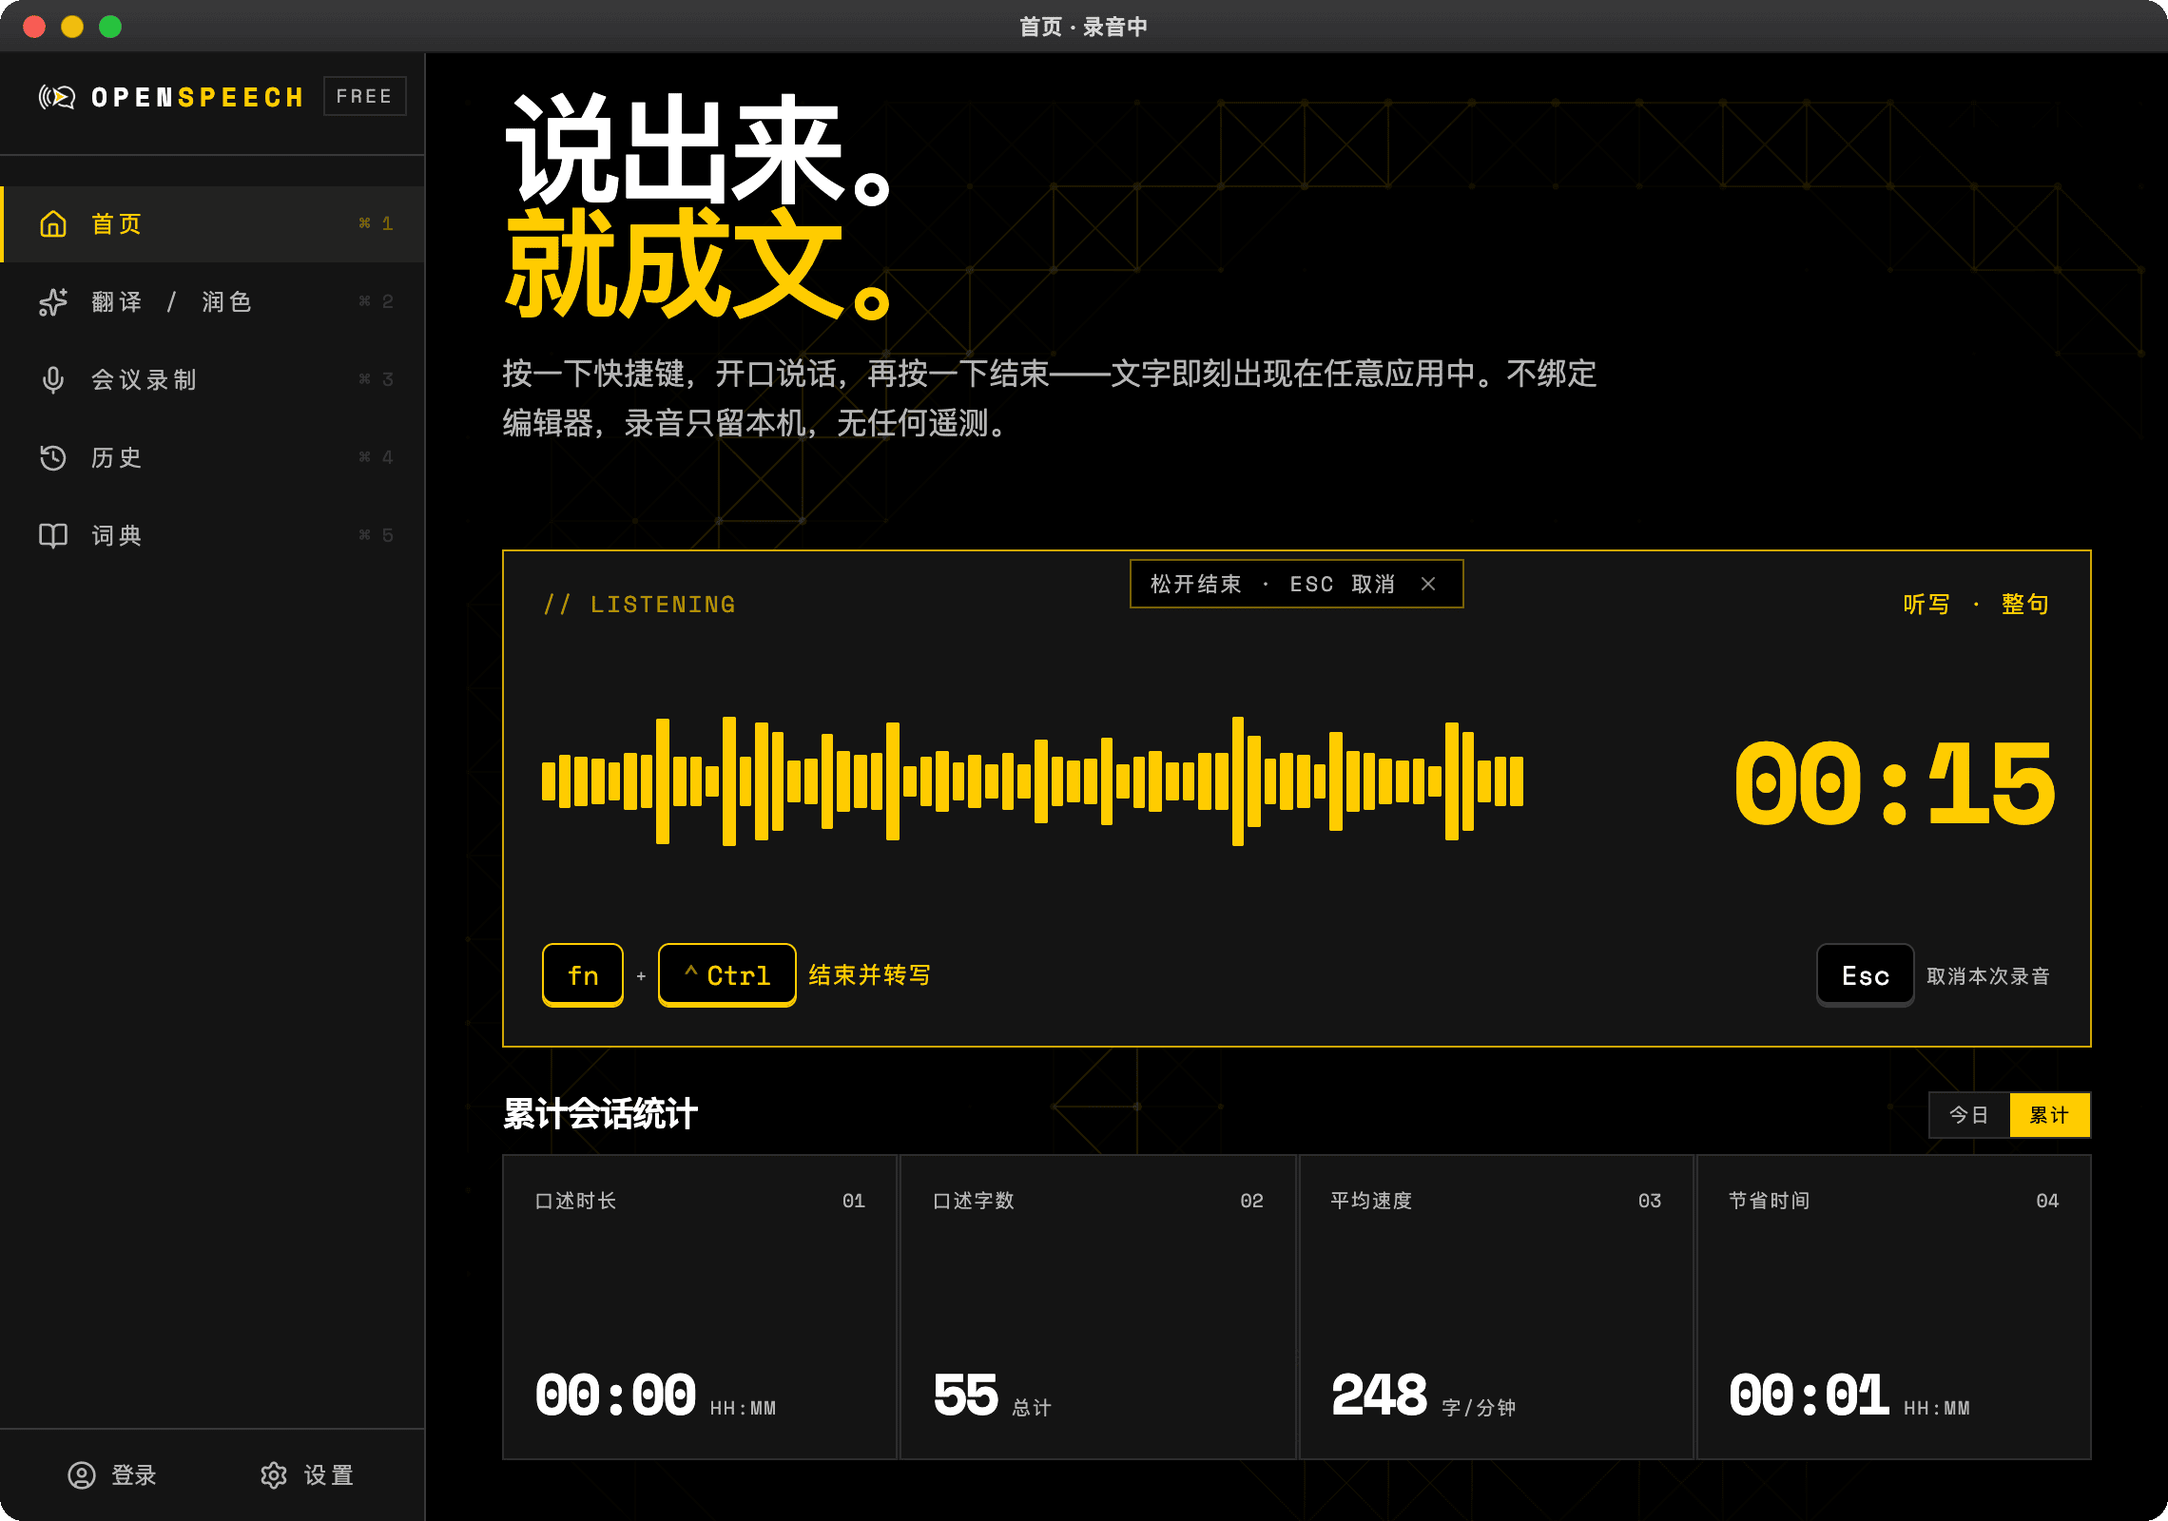
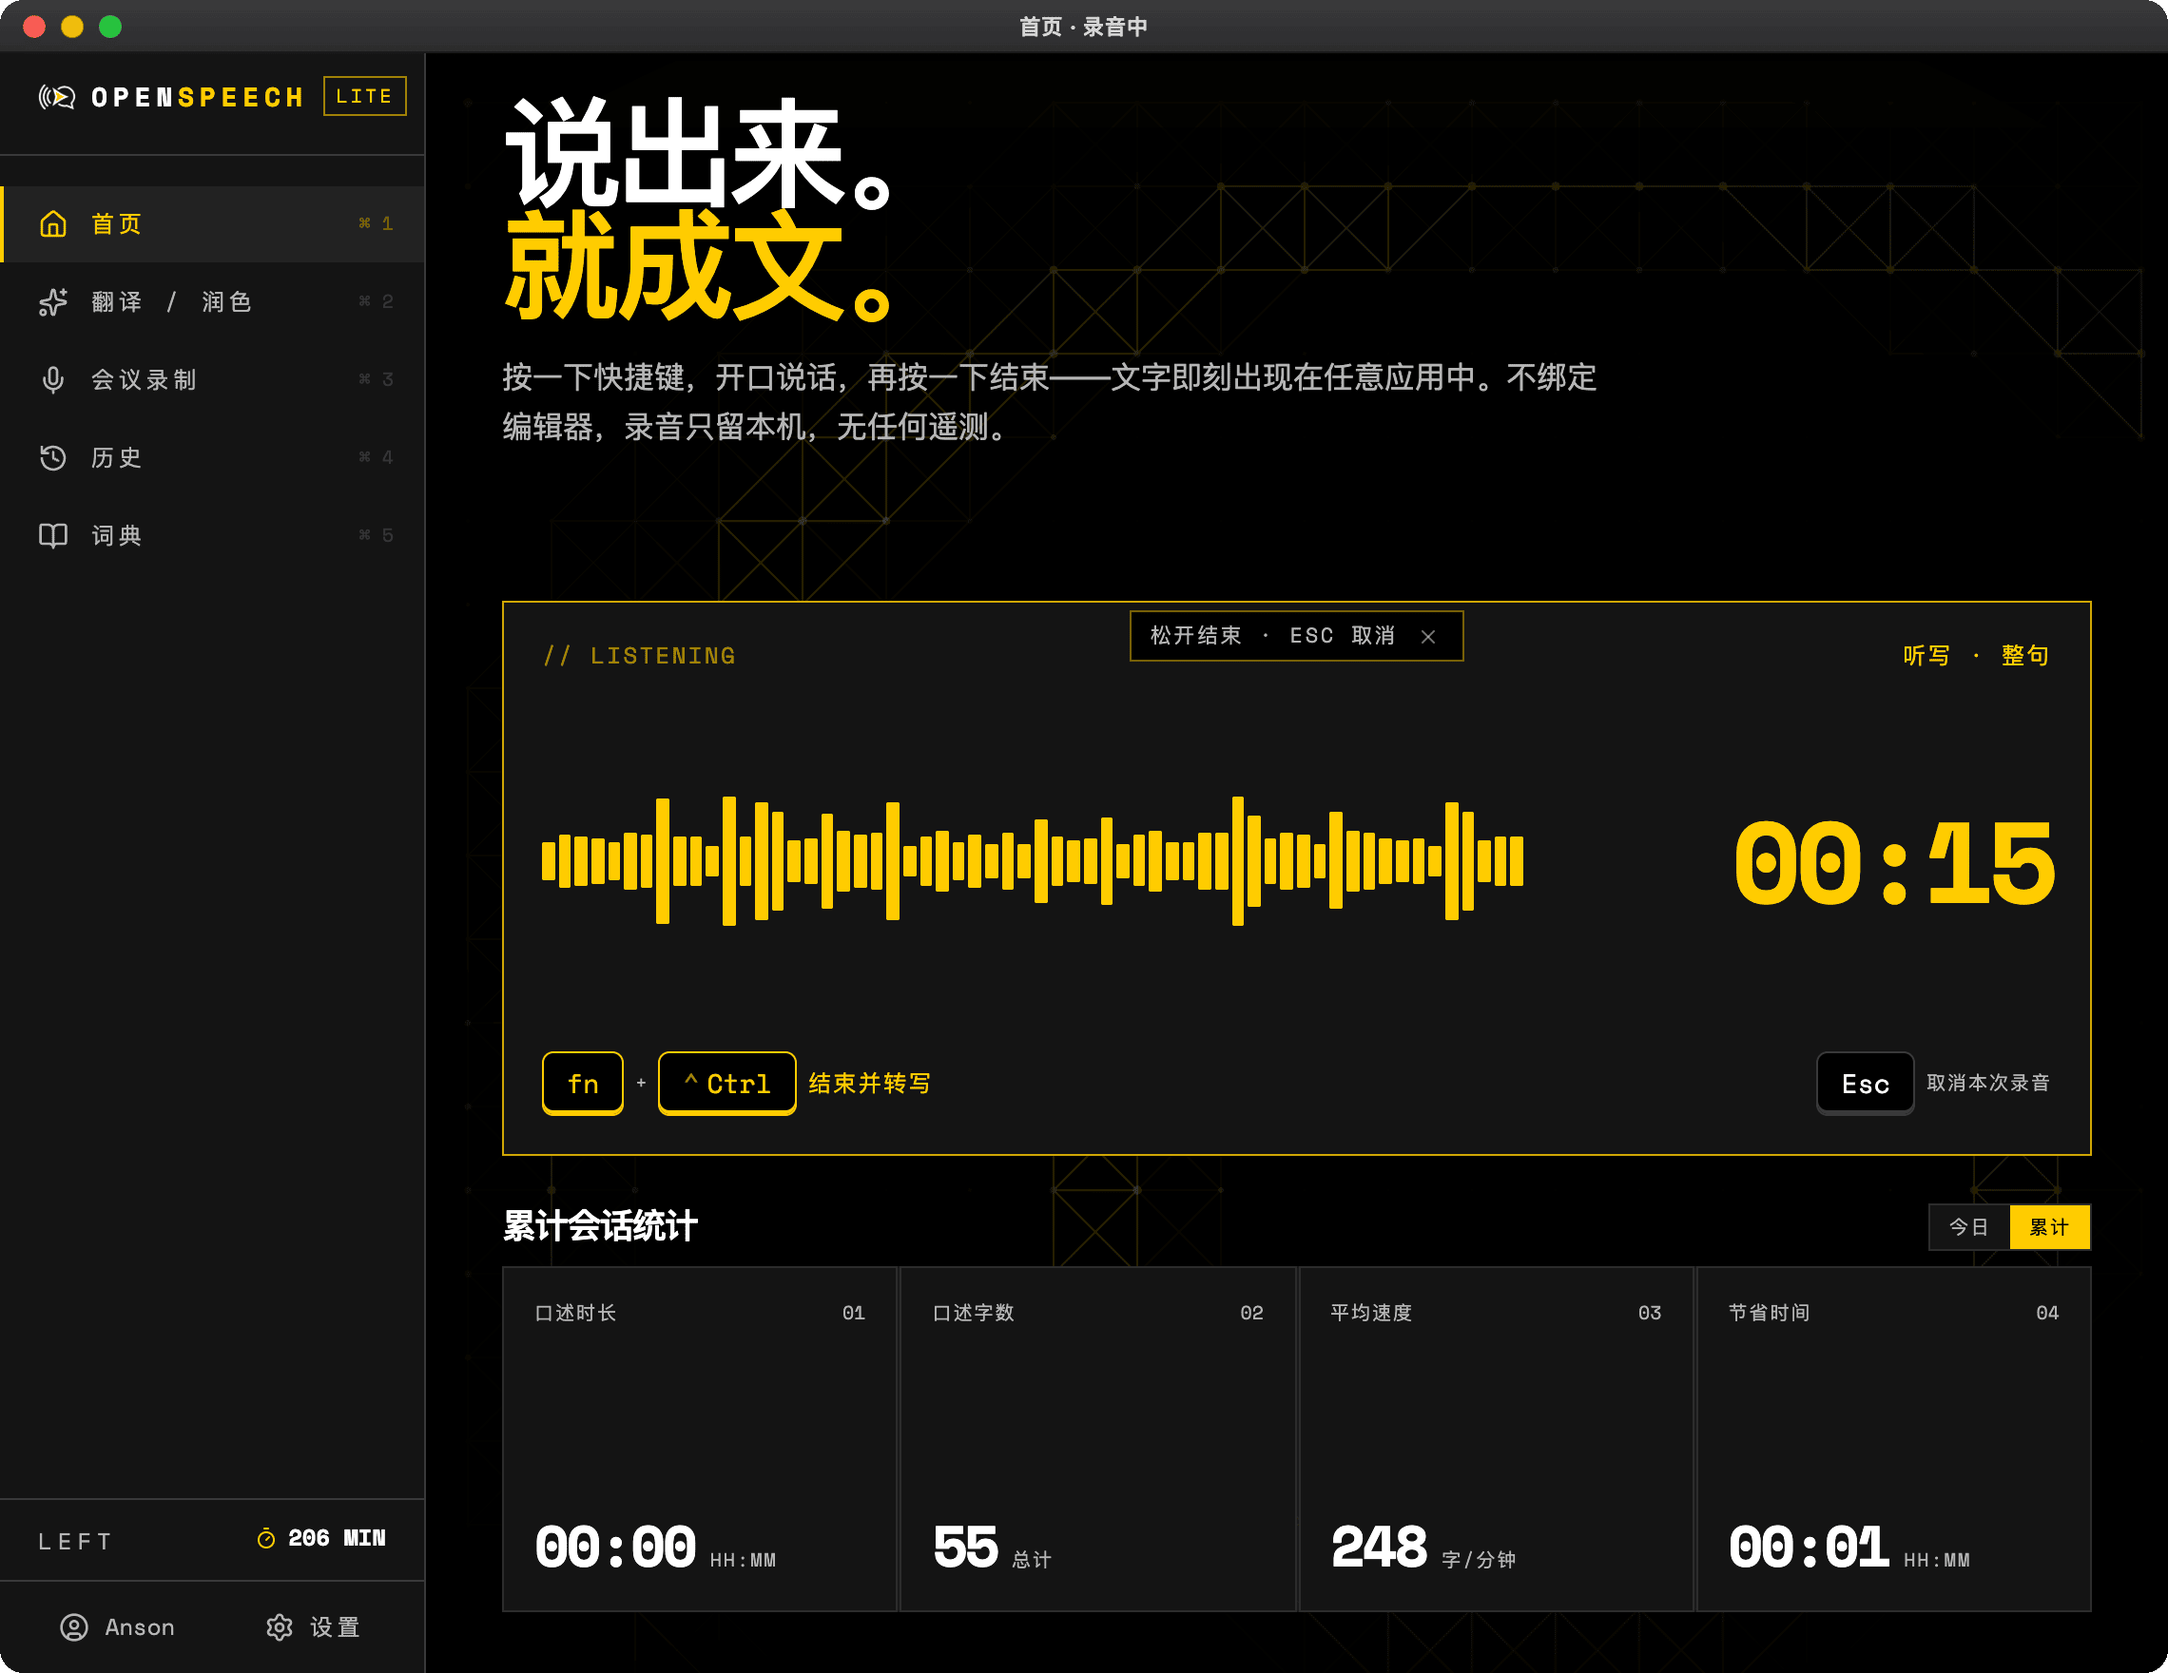
feat(refine): ASR+refine 合并进 Rust 内串联 + beta 渠道诊断日志
- transcribe_refine 模块：ASR 完成后在 Rust 内直接续接 refine，绕开主窗失焦时被
  WebKit 节流的前端 IPC 往返；最终文本由 Rust 直写剪贴板兜底
- ai_refine 拆出 run_refine_core 供 transcribe_refine 复用
- lib.rs 注册 transcribe_and_refine + disable_app_nap + beta_channel_opted_in
  （开 Beta 通道即走 Debug 日志，回收 refine snapshot 用于定位短录音复读 bug）
- bump frontend 依赖到 0.2.49-beta.0 + 更新首页/hero 截图

diff --git a/src-tauri/src/lib.rs b/src-tauri/src/lib.rs
@@ -43,6 +43,7 @@ mod quick_panel;
 pub mod secrets;
 mod stt;
 mod transcribe;
+mod transcribe_refine;
 mod update_channel;
 
 // 前端订阅此事件以决定"关闭到后台 / 退出 / 弹对话框"，见 Layout.tsx。
@@ -247,6 +248,39 @@ const DEV_LOG_FILE_NAME: &str = "OpenSpeech_dev";
 // 正式版（不带 -）仍走 Info，避免普通用户机器堆几百 MB 噪声日志。
 fn is_debug_log_build() -> bool {
     cfg!(debug_assertions) || env!("CARGO_PKG_VERSION").contains('-')
+}
+
+// 用户在设置里开了 beta 渠道（即便当前还装着正式版）即视为愿意回收诊断日志 → 开 Debug。
+// 真源 = update_channel.rs 经 app_config_dir 写的 update-channel；log 插件注册时 app handle
+// 尚不可用，只能裸读。路径须用 config 语义（非 resolved_log_dir 的 data 语义：Win=Roaming
+// APPDATA 而非 LOCALAPPDATA、Linux=.config 而非 .local/share），否则读不到 beta 用户的文件。
+fn beta_channel_opted_in() -> bool {
+    const IDENTIFIER: &str = "com.openspeech.app";
+
+    #[cfg(target_os = "macos")]
+    let base = std::env::var("HOME")
+        .map(std::path::PathBuf::from)
+        .unwrap_or_default()
+        .join("Library/Application Support");
+
+    #[cfg(target_os = "windows")]
+    let base = std::env::var("APPDATA")
+        .map(std::path::PathBuf::from)
+        .unwrap_or_default();
+
+    #[cfg(target_os = "linux")]
+    let base = std::env::var("XDG_CONFIG_HOME")
+        .map(std::path::PathBuf::from)
+        .unwrap_or_else(|_| {
+            std::env::var("HOME")
+                .map(|h| std::path::PathBuf::from(h).join(".config"))
+                .unwrap_or_default()
+        });
+
+    matches!(
+        std::fs::read_to_string(base.join(IDENTIFIER).join("update-channel")),
+        Ok(s) if s.trim() == "beta"
+    )
 }
 
 // debug 构建启动时把上一轮 dev 日志删掉，实现"每次启动覆盖"。
@@ -695,6 +729,44 @@ fn disable_macos_fullscreen(window: &tauri::WebviewWindow) {
     }
 }
 
+// 进程级关闭 App Nap。主窗被前台 app 完全遮挡时，macOS 会 nap 本进程并节流
+// webview 的 JS event loop（timer coalescing），导致「ASR 出结果 → 前端驱动
+// AI refine」的编排卡在 pending，直到一次用户输入才解冻。OpenSpeech 是全局
+// 快捷键驱动、必须随时响应的工具，被 nap 属于根本性错误，全程持有一个
+// user-initiated activity assertion 关掉它。
+//
+// 注意：wry 的 backgroundThrottling 配置走 WKWebView inactiveSchedulingPolicy，
+// 只覆盖 webview「脱离窗口」(not in a window) 的场景，管不到「窗口可见但被遮挡」
+// 这条 App Nap 路径——所以那个配置对本问题无效，这里才是真正的解。
+#[cfg(target_os = "macos")]
+fn disable_app_nap() {
+    use objc::runtime::Object;
+    use objc::{class, msg_send, sel, sel_impl};
+
+    // NSActivityUserInitiatedAllowingIdleSystemSleep：阻止 App Nap，但允许系统
+    // 在整体 idle 时正常进入睡眠（不霸占整机电源）。
+    const NS_ACTIVITY_USER_INITIATED_ALLOWING_IDLE_SYSTEM_SLEEP: u64 = 0x00EF_FFFF;
+
+    unsafe {
+        let process_info: *mut Object = msg_send![class!(NSProcessInfo), processInfo];
+        if process_info.is_null() {
+            return;
+        }
+        let reason: *mut Object = msg_send![
+            class!(NSString),
+            stringWithUTF8String: c"OpenSpeech stays responsive to global push-to-talk".as_ptr()
+        ];
+        let token: *mut Object = msg_send![
+            process_info,
+            beginActivityWithOptions: NS_ACTIVITY_USER_INITIATED_ALLOWING_IDLE_SYSTEM_SLEEP
+            reason: reason
+        ];
+        // retain 让 token 活到进程结束 = activity 永久有效。不存 rust 侧、也不 end。
+        let _: *mut Object = msg_send![token, retain];
+    }
+    log::warn!("[app-nap] disabled via NSProcessInfo activity (UserInitiatedAllowingIdleSystemSleep)");
+}
+
 #[cfg_attr(mobile, tauri::mobile_entry_point)]
 pub fn run() {
     truncate_dev_log_on_start();
@@ -711,8 +783,8 @@ pub fn run() {
                 // 默认 UseUtc，终端时间会差一个时区，改本地时区。
                 .timezone_strategy(tauri_plugin_log::TimezoneStrategy::UseLocal)
                 // Debug 整体放开 + 把噪声过大的网络栈拽回 Info；正式版维持 Info。
-                // beta 等 prerelease 走 Debug，方便回收用户日志。
-                .level(if is_debug_log_build() {
+                // beta 包 + 开了 beta 渠道开关的正式版用户都走 Debug，方便回收用户日志。
+                .level(if is_debug_log_build() || beta_channel_opted_in() {
                     tauri_plugin_log::log::LevelFilter::Debug
                 } else {
                     tauri_plugin_log::log::LevelFilter::Info
@@ -805,6 +877,10 @@ pub fn run() {
         .manage(hotkey::modifier_only::create_state())
         .manage::<openloaf::SharedOpenLoaf>(std::sync::Arc::new(openloaf::OpenLoafState::new()))
         .setup(|app| {
+            // ---- 禁用 macOS App Nap（必须尽早）-------------------------------
+            #[cfg(target_os = "macos")]
+            disable_app_nap();
+
             // ---- 清理超过保留期的滚动日志 ------------------------------------
             purge_old_log_files();
 
@@ -1128,6 +1204,7 @@ pub fn run() {
             dictionary_agent::extract_dictionary_terms,
             transcribe::transcribe_recording_file,
             transcribe::transcribe_long_audio_url,
+            transcribe_refine::transcribe_and_refine,
             asr::test_provider::dictation_test_provider,
             inject::inject_paste,
             inject::inject_commit_ime,

diff --git a/src-tauri/src/transcribe_refine/mod.rs b/src-tauri/src/transcribe_refine/mod.rs
@@ -1,0 +1,139 @@
+// ASR → AI refine 的 Rust 内部串联。
+//
+// 为什么存在：主窗失焦时 macOS WebKit 节流主窗 webview 的 event loop，前端
+// `await invoke(transcribe)` 的 IPC response 投递被卡几秒到几分钟，导致「ASR
+// 出结果 → 前端再 invoke refine」这一跳长时间停摆。把这一跳搬到 Rust 内部：
+// 一次 invoke 跑完 ASR + refine，最终结果由 Rust 直接写系统剪贴板兜底（不经
+// webview，不受节流），保证文字一定落地。
+//
+// refine 的 delta 仍通过 run_refine_core 内部的 EVENT_DELTA emit；前端监听不变。
+// 前台时流式注入照常，后台时这些回调同样被节流退化——剪贴板兜底是后台的落地保证。
+
+use serde::Serialize;
+use tauri::{AppHandle, Runtime};
+use tauri_plugin_clipboard_manager::ClipboardExt;
+
+use crate::ai_refine::{RefineChatInput, run_refine_core};
+use crate::asr::byok::ProviderRef;
+use crate::transcribe::transcribe_recording_file;
+
+#[derive(Debug, Serialize)]
+#[serde(rename_all = "camelCase")]
+pub struct TranscribeAndRefineResult {
+    pub raw_text: String,
+    pub refined_text: Option<String>,
+    pub asr_variant: String,
+    pub provider_kind: String,
+    pub credits_asr: f64,
+    pub credits_refine: f64,
+    /// 分阶段错误码（稳定串，前端按现有 isSaasAuthError / humanizeSttError 路由）。
+    pub asr_error: Option<String>,
+    pub refine_error: Option<String>,
+    pub clipboard_written: bool,
+}
+
+#[tauri::command]
+pub async fn transcribe_and_refine<R: Runtime>(
+    app: AppHandle<R>,
+    audio_path: String,
+    duration_ms: u64,
+    lang: Option<String>,
+    provider: Option<ProviderRef>,
+    asr_system_prompt: Option<String>,
+    // None = 只转写不 refine（等价 skip-refine / refine 关闭）。user_text 由本命令
+    // 用 ASR 输出填充，前端传空串占位即可。
+    refine: Option<RefineChatInput>,
+    clipboard_fallback: bool,
+) -> Result<TranscribeAndRefineResult, String> {
+    // 1. ASR：直接复用现有命令函数，自动走完整 dispatch + 全 backend + fallback。
+    let asr = transcribe_recording_file(
+        app.clone(),
+        audio_path,
+        duration_ms,
+        lang,
+        provider,
+        asr_system_prompt,
+    )
+    .await;
+    let (raw_text, asr_variant, provider_kind, credits_asr) = match asr {
+        Ok(r) => (r.text, r.variant, r.provider_kind, r.credits_consumed),
+        Err(e) => {
+            log::warn!("[transcribe_and_refine] ASR failed: {e}");
+            return Ok(TranscribeAndRefineResult {
+                raw_text: String::new(),
+                refined_text: None,
+                asr_variant: String::new(),
+                provider_kind: String::new(),
+                credits_asr: 0.0,
+                credits_refine: 0.0,
+                asr_error: Some(e),
+                refine_error: None,
+                clipboard_written: false,
+            });
+        }
+    };
+
+    // 静音 / 空转写：没内容可 refine，也不写剪贴板（不覆盖用户已有剪贴板）。
+    if raw_text.trim().is_empty() {
+        return Ok(TranscribeAndRefineResult {
+            raw_text,
+            refined_text: None,
+            asr_variant,
+            provider_kind,
+            credits_asr,
+            credits_refine: 0.0,
+            asr_error: None,
+            refine_error: None,
+            clipboard_written: false,
+        });
+    }
+
+    // 2. refine（若启用）。失败时 refined_text 留 None，落地用 raw_text 兜底。
+    let mut refined_text: Option<String> = None;
+    let mut refine_error: Option<String> = None;
+    let mut credits_refine = 0.0;
+    if let Some(mut input) = refine {
+        input.user_text = raw_text.clone();
+        match run_refine_core(app.clone(), input).await {
+            Ok(rr) => {
+                refined_text = Some(rr.refined_text);
+                credits_refine = rr.credits_consumed;
+            }
+            Err(e) => {
+                log::warn!("[transcribe_and_refine] refine failed: {e}");
+                refine_error = Some(e);
+            }
+        }
+    }
+
+    // 3. 落地兜底：最终文本写系统剪贴板。Rust 直写，不经被节流的 webview。
+    let landing_text = refined_text.clone().unwrap_or_else(|| raw_text.clone());
+    let mut clipboard_written = false;
+    if clipboard_fallback && !landing_text.is_empty() {
+        match app.clipboard().write_text(landing_text) {
+            Ok(()) => clipboard_written = true,
+            Err(e) => log::warn!("[transcribe_and_refine] clipboard write failed: {e}"),
+        }
+    }
+
+    log::info!(
+        "[transcribe_and_refine] done raw_len={} refined={} clipboard_written={} credits_asr={} credits_refine={}",
+        raw_text.chars().count(),
+        refined_text.as_ref().map(|s| s.chars().count()).unwrap_or(0),
+        clipboard_written,
+        credits_asr,
+        credits_refine,
+    );
+
+    Ok(TranscribeAndRefineResult {
+        raw_text,
+        refined_text,
+        asr_variant,
+        provider_kind,
+        credits_asr,
+        credits_refine,
+        asr_error: None,
+        refine_error,
+        clipboard_written,
+    })
+}

diff --git a/src-tauri/src/ai_refine/mod.rs b/src-tauri/src/ai_refine/mod.rs
@@ -516,6 +516,16 @@ pub async fn refine_text_via_chat_stream<R: Runtime>(
     app: AppHandle<R>,
     input: RefineChatInput,
 ) -> Result<RefineChatResult, String> {
+    run_refine_core(app, input).await
+}
+
+// refine 核心：构请求 → SSE 消费 → stripper → emit delta/done → 返回结果。
+// 同时供 transcribe_and_refine 在 Rust 内部直接调用（ASR 完成后续接），绕开
+// 主窗失焦时被 WebKit 节流的前端 IPC 往返。
+pub(crate) async fn run_refine_core<R: Runtime>(
+    app: AppHandle<R>,
+    input: RefineChatInput,
+) -> Result<RefineChatResult, String> {
     let task_id = input.task_id.clone();
     let sp_chars = input.system_prompt.chars().count();
     let sp_bytes = input.system_prompt.len();
